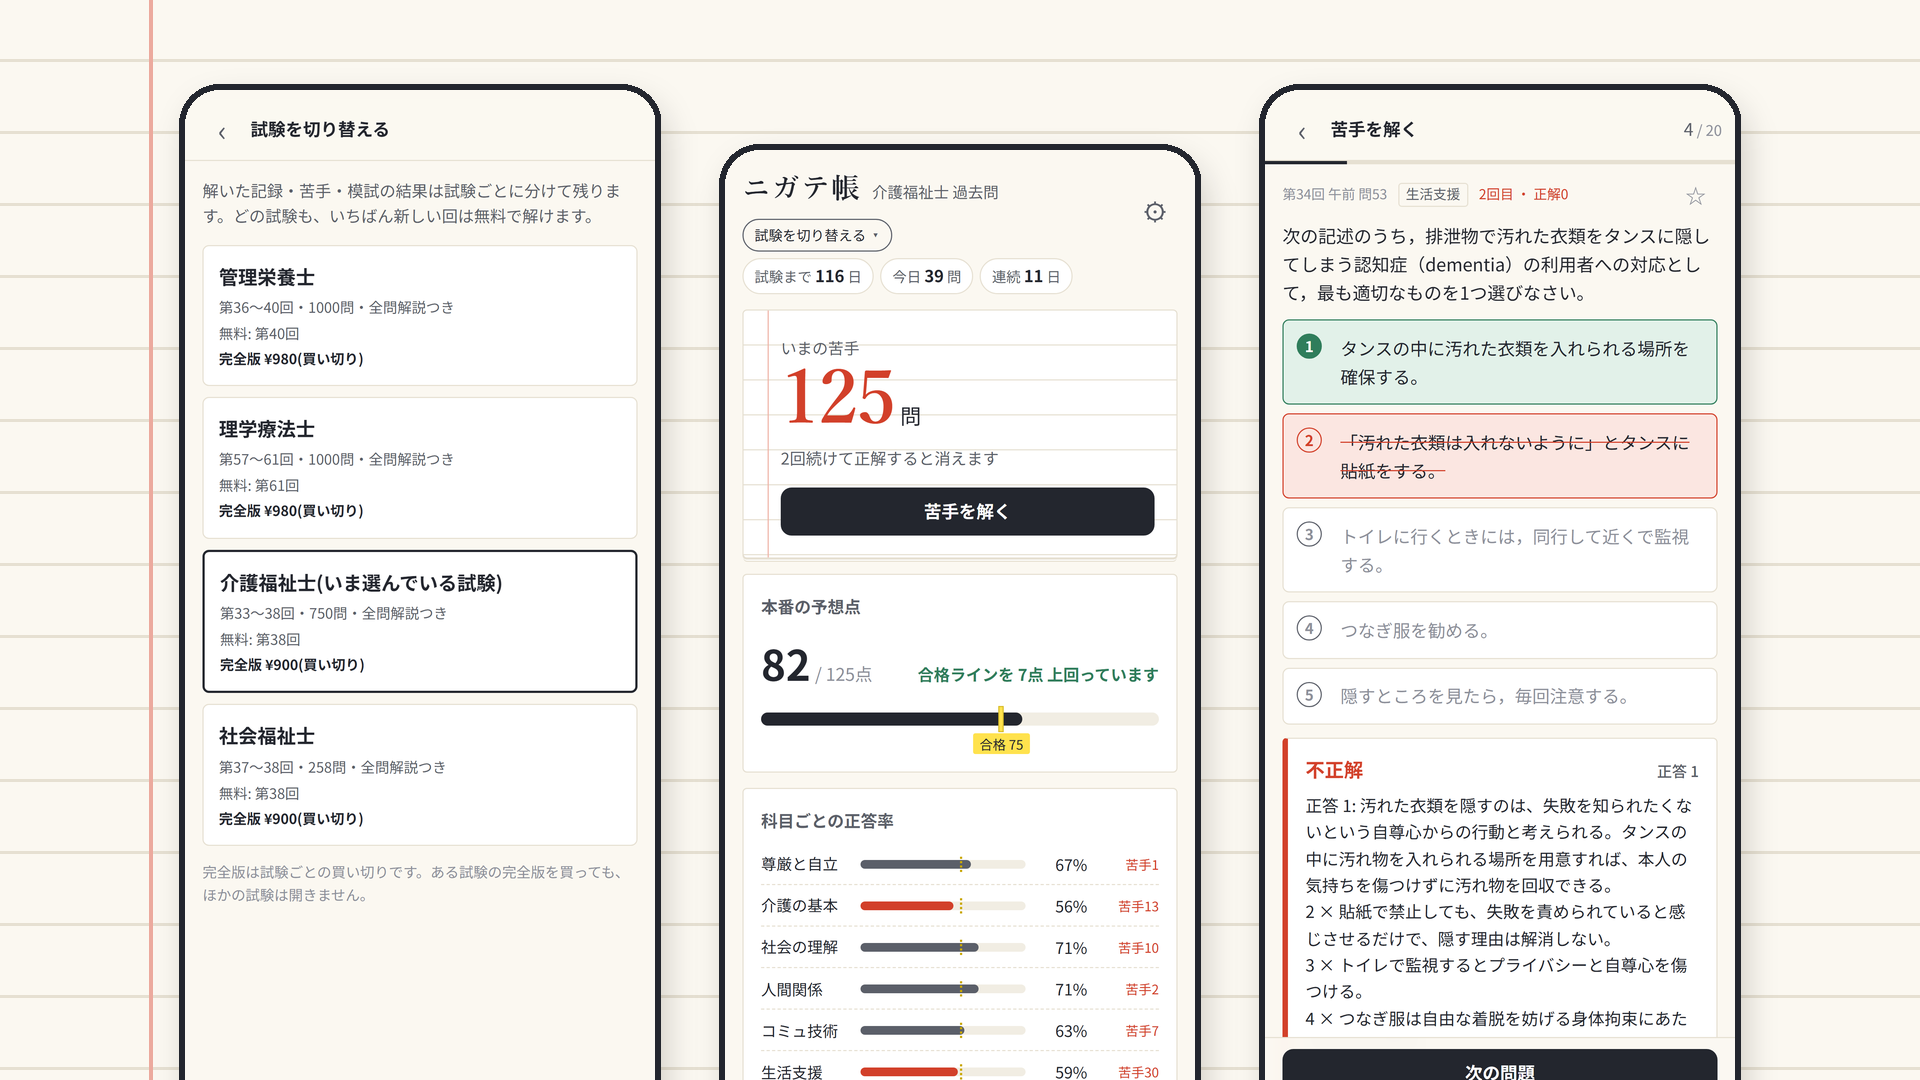
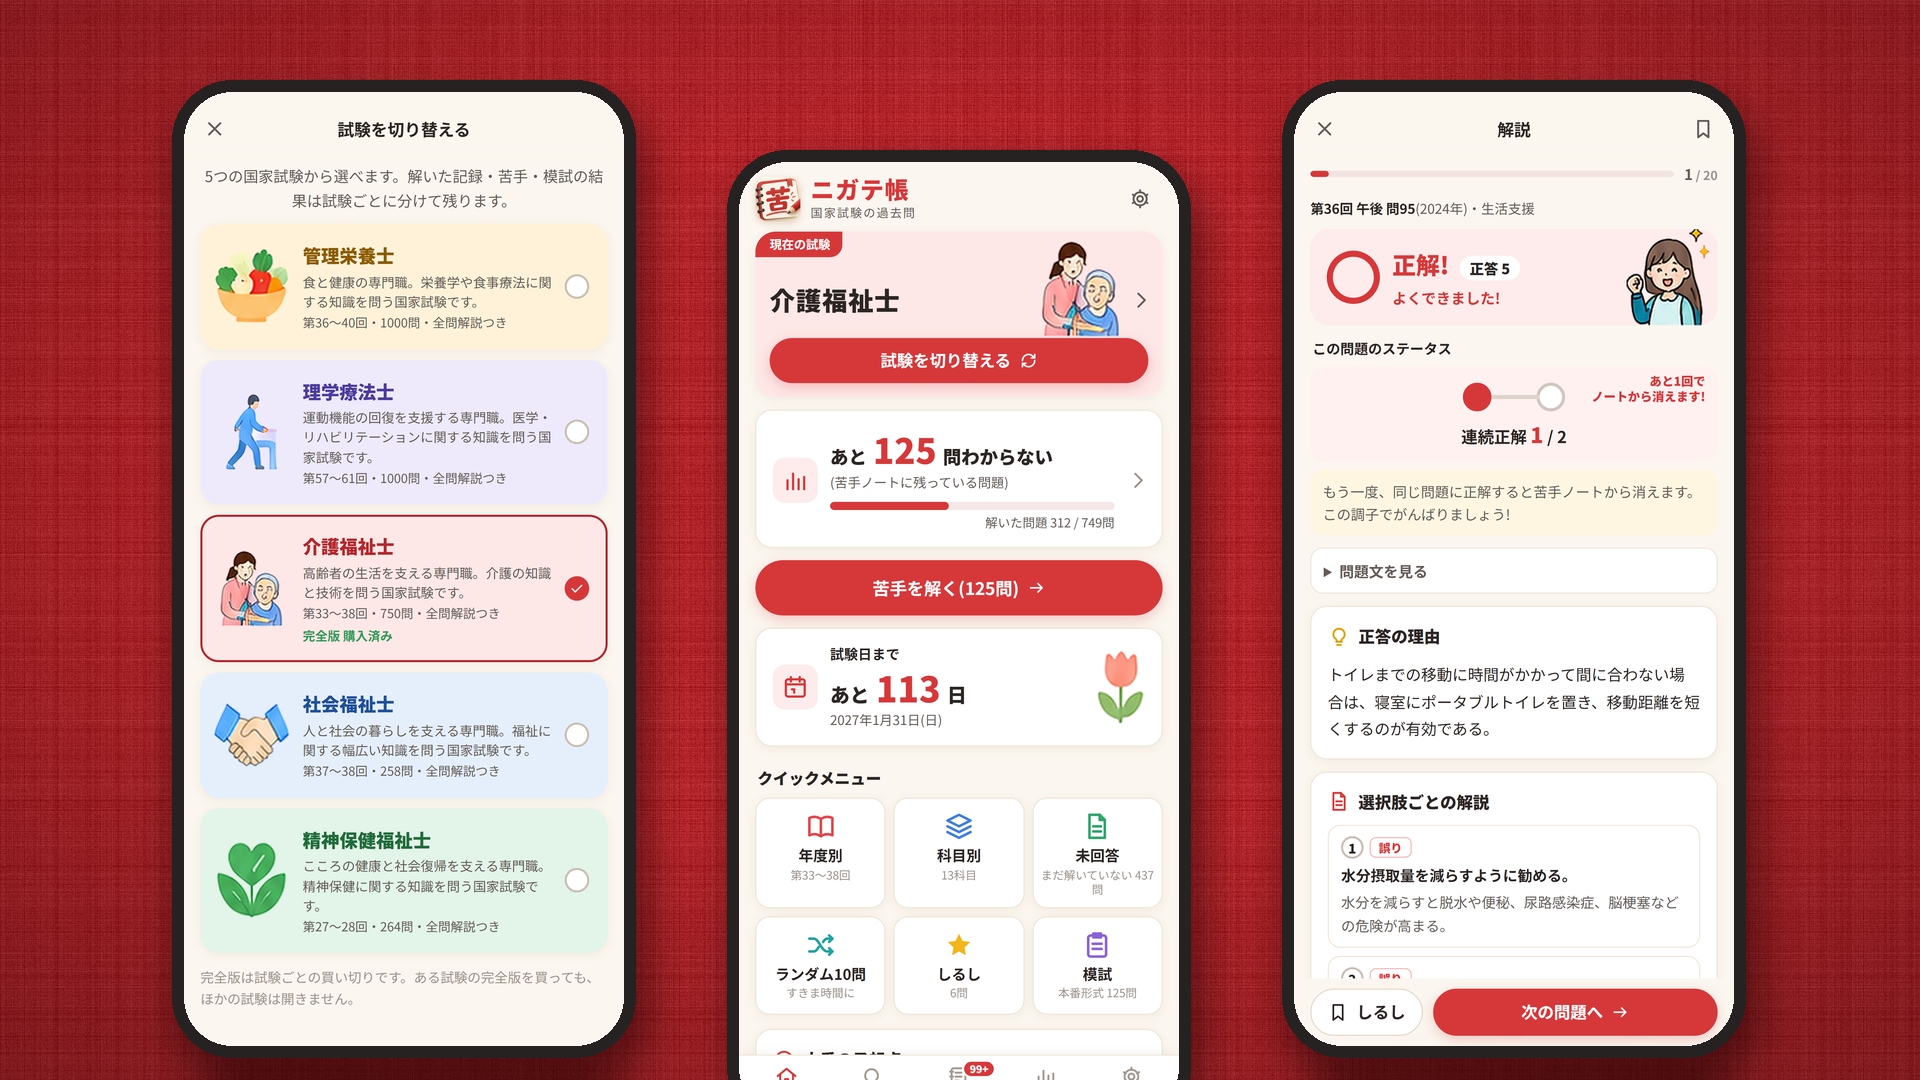
ニガテ帳のストア画像の地を生成りの無地から赤いノートに替える
持ち主「Claude 特有の背景をなくして」。赤い表紙(布目)の地に、白い罫線の紙(リング・しおりつき)を重ねて見出しを置く。
見出しは HGゴシックE、添え書きは游ゴシック Medium。蛍光ペン風の下線はやめた。
App Store のカスタムプロダクトページ(介護福祉士)とイベント画像も今の見た目の画面で同じ地に作り直し、
値段が映っていた試験選びの古い画面を外した。前の物は store/_cream_backup_2026-10-10/(git に入れない)。

diff --git a/scripts/make_store_redesign.py b/scripts/make_store_redesign.py
@@ -4,9 +4,14 @@
 - iphone/1〜6.png 1290x2796 / ipad/1〜5.png 2048x2732(App Store 用。提出はしない)
 - play/1〜6.png 1080x1920・play/feature.png 1024x500(Google Play 用)
 写真に値段と「無料」を入れない(1.1.0 が 2.3.7 で却下)。撮るときに画面の文字を調べ、入っていたら止める。
-撮影途中の画面は store/multi/raw_redesign/(git に入れない)"""
+撮影途中の画面は store/multi/raw_redesign/(git に入れない)
+2026-10-10 持ち主「Claude 特有の背景をなくして」: 生成りの無地+うすい丸をやめ、赤いノートの表紙(布目)の地に
+白い罫線の紙(リング・しおりつき)を重ね、その上に見出しを置く。見出しは HGゴシックE。前の物は store/_cream_backup_2026-10-10/。
+同じ地で App Store のカスタムプロダクトページ(介護福祉士 cpp_kaigo/)とイベント画像(events/)も作る(--compose-only で撮影なし)"""
 import os
 import sys
+
+import numpy as np
 
 from PIL import Image, ImageDraw, ImageFilter, ImageFont
 from playwright.sync_api import sync_playwright
@@ -21,10 +26,15 @@ for d in ("raw_redesign", "iphone", "ipad", "play"):
 ILL = os.path.join(APP, "src", "assets", "ill")
 VIEW = {"viewport": {"width": 430, "height": 932}, "device_scale_factor": 3, "locale": "ja-JP"}
 
-BG = (251, 246, 239)
-INK = (43, 37, 35)
-INK2 = (100, 91, 86)
-RED = (214, 56, 58)
+COVER = (178, 36, 42)       # ノートの表紙の赤(アイコンの赤に合わせる)
+PAGE = (255, 255, 255)       # 紙は白(生成りにしない)
+RULE_C = (196, 214, 232)     # 罫線(うすい青)
+MARGIN_C = (236, 150, 150)   # 左の赤い縦線
+RING = (58, 58, 62)
+INK = (36, 30, 30)
+INK2 = (92, 84, 84)
+RED = (196, 34, 42)
+FONT_H = "C:/Windows/Fonts/HGRGE.TTC"   # 見出し: HGゴシックE(ほかのアプリと書体を分ける)
 FONT_B = "C:/Windows/Fonts/YuGothB.ttc"
 FONT_M = "C:/Windows/Fonts/YuGothM.ttc"
 
@@ -119,9 +129,9 @@ def font(path, size):
     return ImageFont.truetype(path, size)
 
 
-def draw_title(d, x, y, text, size, center_w=None):
-    """【】で囲んだ語を赤くして、下に赤鉛筆の線を引く。行ごとに中央そろえ(center_w があるとき)"""
-    f = font(FONT_B, size)
+def draw_title(d, x, y, text, size, center_w=None, x0=0):
+    """【】で囲んだ語を赤くする(線は引かない)。行ごとに中央そろえ(center_w があるとき)"""
+    f = font(FONT_H, size)
     for line in text.split("\n"):
         parts, red = [], False
         buf = ""
@@ -135,11 +145,9 @@ def draw_title(d, x, y, text, size, center_w=None):
         if buf:
             parts.append((buf, red))
         w = sum(d.textlength(t, font=f) for t, _ in parts)
-        cx = x + (center_w - w) / 2 if center_w else x
+        cx = x0 + (center_w - w) / 2 if center_w else x
         for t, r in parts:
             tw = d.textlength(t, font=f)
-            if r:
-                d.line([(cx + 4, y + size * 1.12), (cx + tw - 4, y + size * 1.08)], fill=(239, 140, 135), width=max(6, size // 9))
             d.text((cx, y), t, font=f, fill=RED if r else INK)
             cx += tw
         y += round(size * 1.42)
@@ -160,64 +168,180 @@ def phone(shot, w):
     return frame
 
 
+def cover(W, H, seed=7):
+    """赤いノートの表紙: 布目(細かい縦横の筋)と、ふちを少し暗く"""
+    rng = np.random.default_rng(seed)
+    base = np.zeros((H, W, 3), np.float32) + np.array(COVER, np.float32)
+    n = rng.normal(0, 1, (H, W)).astype(np.float32)
+    rows = rng.normal(0, 1, (H, 1)).astype(np.float32)
+    cols = rng.normal(0, 1, (1, W)).astype(np.float32)
+    base += (n * 5 + rows * 4 + cols * 4)[..., None]
+    yy, xx = np.mgrid[0:H, 0:W].astype(np.float32)
+    r = np.sqrt(((xx - W / 2) / (W * 0.62)) ** 2 + ((yy - H * 0.45) / (H * 0.62)) ** 2)
+    base *= (1 - np.clip(r - 0.55, 0, 1) * 0.45)[..., None]
+    return Image.fromarray(np.clip(base, 0, 255).astype(np.uint8)).convert("RGBA")
+
+
+def page_card(im, box, rule_step, rings=True, ribbon=True):
+    """白い罫線の紙を表紙の上に置く(左にリング、右上にしおり)。返り値は紙の左の赤い縦線の位置(紙の中の x)"""
+    W, H = im.size
+    x0, y0, x1, y1 = [round(v) for v in box]
+    r = round(min(W, H) * 0.012) + 4
+    sh = Image.new("RGBA", (W, H), (0, 0, 0, 0))
+    ImageDraw.Draw(sh).rounded_rectangle([x0 + 6, y0 + 14, x1 + 6, y1 + 18], radius=r, fill=(40, 0, 0, 120))
+    im.alpha_composite(sh.filter(ImageFilter.GaussianBlur(max(6, min(W, H) * 0.012))))
+    pg = Image.new("RGBA", (x1 - x0, y1 - y0), PAGE + (255,))
+    pd = ImageDraw.Draw(pg)
+    lw = max(2, round(min(W, H) * 0.0018))
+    for y in range(round(rule_step * 1.2), pg.height - round(rule_step * 0.3), rule_step):
+        pd.line([(0, y), (pg.width, y)], fill=RULE_C, width=lw)
+    mx = round(pg.width * 0.085) if rings else round(pg.width * 0.05)
+    pd.line([(mx, 0), (mx, pg.height)], fill=MARGIN_C, width=lw + 1)
+    m = Image.new("L", pg.size, 0)
+    ImageDraw.Draw(m).rounded_rectangle([0, 0, pg.width - 1, pg.height - 1], radius=r, fill=255)
+    im.paste(pg, (x0, y0), m)
+    d = ImageDraw.Draw(im)
+    u = min(W, H)
+    if ribbon:
+        rw = round(u * 0.045)
+        rx = x1 - round((x1 - x0) * 0.09)
+        rl = round((y1 - y0) * 0.34)
+        d.polygon([(rx, y0 - round(rw * 0.3)), (rx + rw, y0 - round(rw * 0.3)), (rx + rw, y0 + rl),
+                   (rx + rw / 2, y0 + rl - rw * 0.45), (rx, y0 + rl)], fill=(150, 22, 30))
+    if rings:
+        hr = round(u * 0.011)
+        n = max(2, round((y1 - y0) / (u * 0.085)))
+        gap = (y1 - y0) / (n + 1)
+        hx = x0 + round((x1 - x0) * 0.04)
+        for i in range(1, n + 1):
+            cy = round(y0 + gap * i)
+            rw2 = round(u * 0.05)
+            d.rounded_rectangle([hx - rw2, cy - round(hr * 1.7), hx + round(hr * 0.4), cy + round(hr * 0.5)],
+                                radius=round(hr * 1.2), outline=RING, width=max(4, round(u * 0.007)))
+            d.ellipse([hx - hr, cy - hr, hx + hr, cy + hr], fill=(110, 20, 26))  # 穴(リングが入っていく)
+    return mx
+
+
+def put_phone(im, fr, x, y):
+    W, H = im.size
+    sh = Image.new("RGBA", (W, H), (0, 0, 0, 0))
+    ImageDraw.Draw(sh).rounded_rectangle([x + 8, y + 24, x + fr.width + 8, y + fr.height + 24], radius=fr.width * 0.13, fill=(30, 0, 0, 140))
+    im.alpha_composite(sh.filter(ImageFilter.GaussianBlur(min(W, H) * 0.018)))
+    im.alpha_composite(fr, (x, y))
+
+
 def compose(name, title, sub, art, W, H, phone_w, title_size, top):
-    im = Image.new("RGBA", (W, H), BG + (255,))
+    im = cover(W, H)
+    # 見出しは紙の内側(リングとしおりを避けた幅)に収まるまで小さくする
+    inner_w = round(W * 0.9 * 0.78)
+    probe = ImageDraw.Draw(im)
+    while title_size > 40 and max(probe.textlength(ln.replace("【", "").replace("】", ""), font=font(FONT_H, title_size))
+                                  for ln in title.split("\n")) > inner_w:
+        title_size -= 2
+    # 見出しと添え書きの高さを先に測って、紙の大きさを決める
+    nl = title.count("\n") + 1
+    sub_lines = sub.split("\n")
+    th = round(title_size * 1.42) * nl
+    sh_ = round(title_size * 0.62) * len(sub_lines)
+    px0, px1 = round(W * 0.05), round(W * 0.95)
+    py0 = round(top * 0.55)
+    py1 = top + th + sh_ + round(title_size * 0.45)
+    page_card(im, (px0, py0, px1, py1), rule_step=round(title_size * 0.71))
     d = ImageDraw.Draw(im)
-    # 地にうすい丸(見本の背景のやわらかい光)
-    glow = Image.new("RGBA", (W, H), (0, 0, 0, 0))
-    gd = ImageDraw.Draw(glow)
-    gd.ellipse([-W * 0.3, -H * 0.12, W * 0.7, H * 0.3], fill=(253, 228, 222, 150))
-    gd.ellipse([W * 0.55, H * 0.55, W * 1.4, H * 1.15], fill=(255, 238, 214, 140))
-    im.alpha_composite(glow.filter(ImageFilter.GaussianBlur(W * 0.08)))
-    d = ImageDraw.Draw(im)
-    y = draw_title(d, 0, top, title, title_size, center_w=W)
-    fs = font(FONT_M, round(title_size * 0.42))
-    for line in sub.split("\n"):
+    inner_x0 = px0 + round((px1 - px0) * 0.105)
+    y = draw_title(d, 0, top, title, title_size, center_w=inner_w, x0=inner_x0)
+    ss = round(title_size * 0.42)
+    while ss > 20 and max(d.textlength(ln, font=font(FONT_M, ss)) for ln in sub_lines) > inner_w * 0.96:
+        ss -= 1
+    fs = font(FONT_M, ss)
+    for line in sub_lines:
         tw = d.textlength(line, font=fs)
-        d.text(((W - tw) / 2, y + title_size * 0.05), line, font=fs, fill=INK2)
+        d.text((inner_x0 + (inner_w - tw) / 2, y + title_size * 0.05), line, font=fs, fill=INK2)
         y += round(title_size * 0.62)
     shot = Image.open(raw(name)).convert("RGB")
     fr = phone(shot, phone_w)
-    py = round(y + title_size * 0.5)
-    # 影
-    sh = Image.new("RGBA", (W, H), (0, 0, 0, 0))
-    ImageDraw.Draw(sh).rounded_rectangle([(W - fr.width) / 2 + 10, py + 30, (W + fr.width) / 2 + 10, py + fr.height + 30], radius=phone_w * 0.13, fill=(110, 70, 40, 70))
-    im.alpha_composite(sh.filter(ImageFilter.GaussianBlur(W * 0.02)))
-    im.alpha_composite(fr, ((W - fr.width) // 2, py))
-    # 絵は見出しや画面に重なるので、ストアの写真には置かない(画面の中にキャラクターが出ている)
-    if art and False:
-        a = Image.open(os.path.join(ILL, art + ".webp")).convert("RGBA")
-        aw = round(W * 0.2)
-        a = a.resize((aw, round(a.height * aw / a.width)), Image.LANCZOS)
-        im.alpha_composite(a, (W - aw - round(W * 0.03), max(0, py - a.height + round(W * 0.02))))
+    py = round(py1 + title_size * 0.75)
+    put_phone(im, fr, (W - fr.width) // 2, py)
     return im.convert("RGB")
 
 
 def feature():
     W, H = 1024, 500
-    im = Image.new("RGBA", (W, H), BG + (255,))
-    glow = Image.new("RGBA", (W, H), (0, 0, 0, 0))
-    ImageDraw.Draw(glow).ellipse([-200, -260, 520, 380], fill=(253, 224, 218, 170))
-    im.alpha_composite(glow.filter(ImageFilter.GaussianBlur(60)))
-    icon = Image.open(os.path.join(APP, "exams", "kanri", "assets", "icon.png")).convert("RGB").resize((236, 236), Image.LANCZOS)
+    im = cover(W, H)
+    icon = Image.open(os.path.join(APP, "exams", "kanri", "assets", "icon.png")).convert("RGB").resize((220, 220), Image.LANCZOS)
     m = Image.new("L", icon.size, 0)
-    ImageDraw.Draw(m).rounded_rectangle([0, 0, 235, 235], radius=52, fill=255)
+    ImageDraw.Draw(m).rounded_rectangle([0, 0, 219, 219], radius=48, fill=255)
     sh = Image.new("RGBA", (W, H), (0, 0, 0, 0))
-    ImageDraw.Draw(sh).rounded_rectangle([62, 140, 298, 376], radius=52, fill=(120, 60, 40, 80))
+    ImageDraw.Draw(sh).rounded_rectangle([46, 152, 266, 372], radius=48, fill=(30, 0, 0, 150))
     im.alpha_composite(sh.filter(ImageFilter.GaussianBlur(14)))
-    im.paste(icon, (54, 124), m)
+    im.paste(icon, (38, 140), m)
+    mx = page_card(im, (300, 34, 990, 466), rule_step=44, ribbon=True)
     d = ImageDraw.Draw(im)
-    d.text((330, 96), "わからないを、できるに変える。", font=font(FONT_M, 30), fill=INK2)
-    d.text((326, 140), "ニガテ帳", font=font(FONT_B, 104), fill=RED)
-    d.text((332, 262), "国家試験の過去問", font=font(FONT_B, 44), fill=INK)
-    d.text((332, 330), "間違えた問題だけが残り、2回続けて正解で消える", font=font(FONT_M, 25), fill=INK2)
-    x = 332
+    x = 300 + mx + 26
+    d.text((x, 62), "わからないを、できるに変える。", font=font(FONT_M, 26), fill=INK2)
+    d.text((x - 4, 100), "ニガテ帳", font=font(FONT_H, 100), fill=RED)
+    d.text((x, 222), "国家試験の過去問", font=font(FONT_H, 44), fill=INK)
+    d.text((x, 290), "間違えた問題だけが残り、2回続けて正解で消える", font=font(FONT_M, 22), fill=INK2)
     for e in ("kaigo", "shakai", "seishin", "kanri", "pt"):
         a = Image.open(os.path.join(ILL, f"exam_{e}.webp")).convert("RGBA")
-        a = a.resize((round(a.width * 74 / a.height), 74), Image.LANCZOS)
-        im.alpha_composite(a, (x, 384))
-        x += a.width + 26
+        a = a.resize((round(a.width * 76 / a.height), 76), Image.LANCZOS)
+        im.alpha_composite(a, (x, 354))
+        x += a.width + 28
     return im.convert("RGB")
+
+
+# ---------- App Store のカスタムプロダクトページ(介護福祉士)・イベント画像 ----------
+# 前は古い見た目の画面(store/multi/raw/)で作っていた。今の見た目の画面(raw_redesign)で作り直す。
+# 前のイベント画像には値段の映る試験選びの画面が入っていたので、値段の無い今の画面に替えた(2.3.7)。
+CPP = [
+    ("home_kaigo", "介護福祉士の過去問、\n【間違えた問題】だけ残る。", "第33回〜第38回の750問・全問に解説つき"),
+    ("explain_kaigo", "事例問題も、\n【なぜ違うか】の解説。", "正答の理由と、ほかの選択肢の誤りを1つずつ"),
+    ("stats_kaigo", "本番なら【何点】か、\n毎日わかる。", "合格基準と並べて、科目ごとの正答率も"),
+    ("cleared_shakai", "2回続けて正解したら、\n【消える】。", "苦手が0問になったら、本番に持っていく苦手はない"),
+]
+
+
+def phone_top(im, name, x, top, sw, maxh):
+    """イベント画像用: 画面を上寄せに置き、下は画像の外へ切る"""
+    fr = phone(Image.open(raw(name)).convert("RGB"), sw)
+    if fr.height > maxh:
+        fr = fr.crop((0, 0, fr.width, maxh))
+    put_phone(im, fr, x, top)
+
+
+def event_card(dst, shots):
+    # Apple がイベント名と説明を下側に重ねるので文字は入れない
+    W, H = 1920, 1080
+    im = cover(W, H)
+    sw, gap = 440, 90
+    x = (W - (len(shots) * (sw + round(sw * 0.056)) + (len(shots) - 1) * gap)) // 2
+    for i, s in enumerate(shots):
+        top = 80 if i % 2 == 0 else 150
+        phone_top(im, s, x, top, sw, H - top)
+        x += sw + round(sw * 0.056) + gap
+    im.convert("RGB").save(dst)
+
+
+def event_details(dst, shot):
+    W, H = 1080, 1920
+    im = cover(W, H)
+    sw = 820
+    phone_top(im, shot, (W - sw - round(sw * 0.056)) // 2, 150, sw, H - 150)
+    im.convert("RGB").save(dst)
+
+
+def compose_extra():
+    cpp = os.path.join(OUT, "cpp_kaigo")
+    for d in ("iphone", "ipad"):
+        os.makedirs(os.path.join(cpp, d), exist_ok=True)
+    for i, (name, title, sub) in enumerate(CPP, 1):
+        compose(name, title, sub, None, 1290, 2796, 1000, 104, 150).save(os.path.join(cpp, "iphone", f"{i}.png"))
+        compose(name, title, sub, None, 2048, 2732, 1010, 118, 140).save(os.path.join(cpp, "ipad", f"{i}.png"))
+    ev = os.path.join(OUT, "events")
+    event_card(os.path.join(ev, "kaigo_added_card.png"), ["switch", "home_kaigo", "explain_kaigo"])
+    event_details(os.path.join(ev, "kaigo_added_details.png"), "switch")
+    event_card(os.path.join(ev, "kaigo39_final_card.png"), ["home_kaigo", "cleared_shakai"])
+    event_details(os.path.join(ev, "kaigo39_final_details.png"), "cleared_shakai")
 
 
 def compose_all():
@@ -227,6 +351,7 @@ def compose_all():
         if i <= 5:
             compose(name, title, sub, art, 2048, 2732, 1010, 118, 140).save(os.path.join(OUT, "ipad", f"{i}.png"))
     feature().save(os.path.join(OUT, "play", "feature.png"))
+    compose_extra()
 
 
 def check_sizes():
